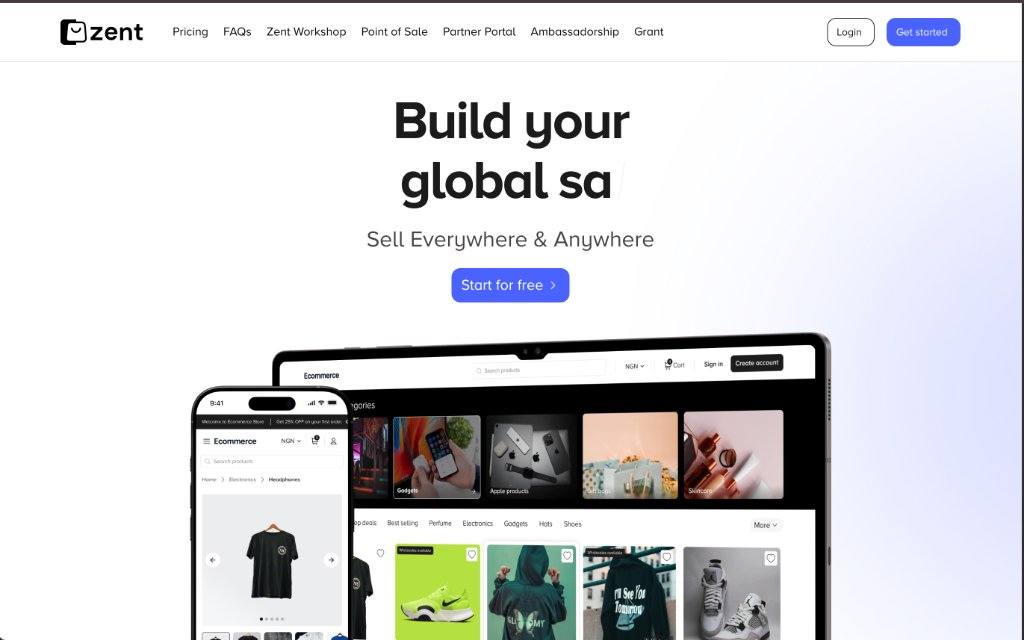
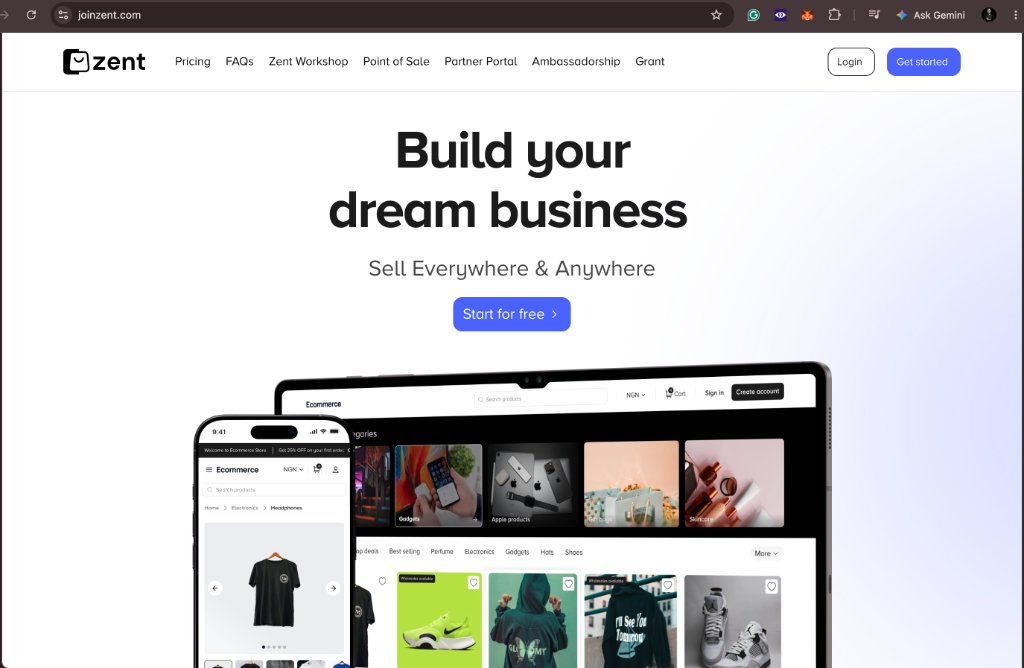
refactor: remove CV download and view options from Hero and ContactBar components

diff --git a/src/components/ContactBar.jsx b/src/components/ContactBar.jsx
@@ -1,5 +1,3 @@
-import { CV_URL } from './Hero.jsx'
-
 export const CONTACT_EMAIL = 'onikoladanielwilliams@gmail.com'
 
 export default function ContactBar() {
@@ -18,21 +16,6 @@ export default function ContactBar() {
             <a className="button accent" href={`mailto:${CONTACT_EMAIL}`}>
               Let's talk
             </a>
-            {CV_URL ? (
-              <a className="button" href={CV_URL} target="_blank" rel="noopener noreferrer">
-                View my CV
-              </a>
-            ) : (
-              <button
-                type="button"
-                className="button"
-                aria-disabled="true"
-                title="CV file (/Daniel_Williams_Resume.pdf) to be added"
-                style={{ opacity: 0.65, cursor: 'default' }}
-              >
-                View my CV
-              </button>
-            )}
           </div>
           <small className="muted" style={{ display: 'block', marginTop: 14 }}>
             Direct email: <code style={{ userSelect: 'all', color: 'var(--text)' }}>{CONTACT_EMAIL}</code>

diff --git a/src/components/Hero.jsx b/src/components/Hero.jsx
@@ -1,8 +1,5 @@
 import { useNavigate, useLocation } from 'react-router-dom'
 
-// Set to '/Daniel_Williams_Resume.pdf' once the CV PDF is added to public/
-export const CV_URL = ''
-
 export default function Hero() {
   const navigate = useNavigate()
   const location = useLocation()
@@ -32,21 +29,6 @@ export default function Hero() {
               <a href="#projects" onClick={handleExploreWork} className="button accent">
                 Explore my work
               </a>
-              {CV_URL ? (
-                <a href={CV_URL} download className="button">
-                  Download my CV
-                </a>
-              ) : (
-                <button
-                  type="button"
-                  className="button"
-                  aria-disabled="true"
-                  title="CV file (/Daniel_Williams_Resume.pdf) to be added"
-                  style={{ opacity: 0.65, cursor: 'default' }}
-                >
-                  Download my CV
-                </button>
-              )}
             </div>
           </div>
 
